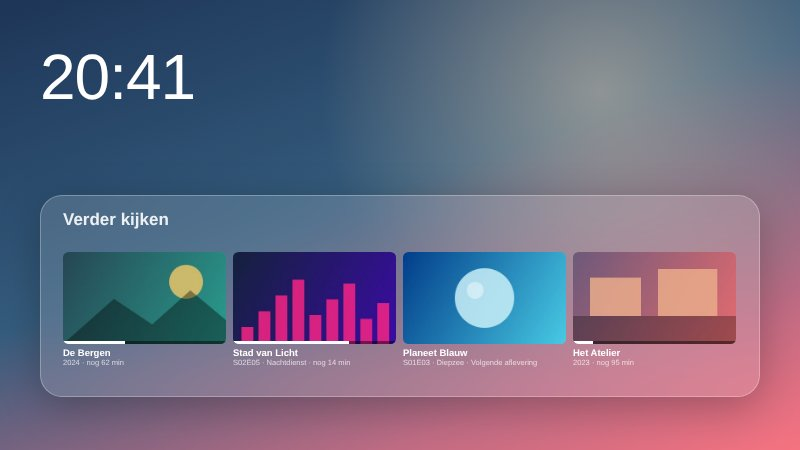
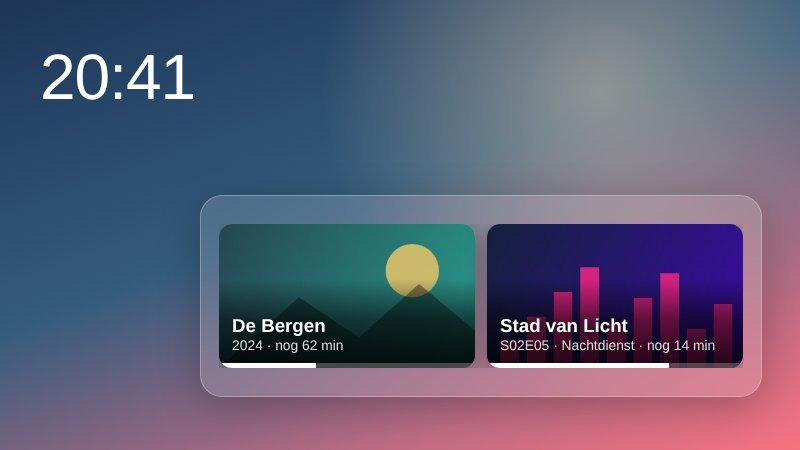
Continue watching: larger and readable; add-on cards on glass
The card shows as many titles as fit at a readable size (a still at least about 1.25 times the card's height), with
the title and episode over the bottom of the picture on a dark fade instead of small text under it. With the glass
card style (Couch) a card with its own page gets the frosted panel and the blurred scene behind it like the Home
Assistant cards, its page inside the panel's margins; the targets of its buttons are moved along with the frame.

Claude-Session: https://claude.ai/code/session_015CPHmiXFrdnEUAxVGgaNFe

Changed region(s): [[0.0312, 0.4356, 0.9688, 0.9022], [0.0625, 0.8711, 0.0938, 0.9022]]

diff --git a/addons/catalog/jellyfin/cards/continue/card.js b/addons/catalog/jellyfin/cards/continue/card.js
@@ -1,6 +1,7 @@
 /* The Continue watching card (ES5: it runs on Chromium 68 too). Everything comes in the message of the launcher: m.data is what the
    Jellyfin add-on's service said, the pictures as data: addresses (the frame has no network). Each title is a button for the remote:
-   the launcher puts a target over it, and OK sends the add-on open1, open2 ... which opens the Jellyfin app. */
+   the launcher puts a target over it, and OK sends the add-on open1, open2 ... which opens the Jellyfin app. The card shows as many
+   titles as fit at a readable size (or the number chosen), the title and episode over the picture. */
 var M = null,
   D = null,
   last = '';
@@ -11,27 +12,23 @@ function el(tag, cls, text) {
   if (text !== undefined) e.textContent = text;
   return e;
 }
-/* the size of a tile: as high as the card allows (two lines of text under the picture), narrower when they do not fit side by side;
-   the text follows the size of the tiles */
-function sizes(n, poster) {
+/* the tiles: as high as the card, side by side; with "as many as fit" a still is never narrower than about 1.25 times the card's
+   height (a poster 0.5 times), so the text stays readable; a chosen number is kept and the tiles get narrower */
+function layout(have, poster, chosen) {
   var W = window.innerWidth,
     H = window.innerHeight,
     ratio = poster ? 2 / 3 : 16 / 9,
-    rem = H * 0.1,
-    z = null;
-  for (var k = 0; k < 2; k++) {
-    var text = rem * (0.78 * 1.3 + 0.62 * 1.3 + 0.25),
-      gap = Math.round(rem * 0.6),
-      h = Math.max(10, H - text),
-      w = h * ratio;
-    if (n * w + (n - 1) * gap > W) {
-      w = (W - (n - 1) * gap) / n;
-      h = w / ratio;
-    }
-    z = { w: Math.floor(w), h: Math.floor(h), gap: gap, rem: rem, top: Math.max(0, Math.floor((H - h - text) / 2)) };
-    rem = Math.min(H * 0.1, Math.max(9, w * (poster ? 0.11 : 0.075)));
+    gap = Math.max(8, Math.round(H * 0.07)),
+    minW = H * (poster ? 0.5 : 1.25),
+    n = chosen ? Math.min(have, chosen) : Math.max(1, Math.min(have, Math.floor((W + gap) / (minW + gap)))),
+    h = H,
+    w = h * ratio;
+  if (n * w + (n - 1) * gap > W) {
+    w = (W - (n - 1) * gap) / n;
+    h = Math.min(H, w / ratio);
   }
-  return z;
+  var rem = Math.max(11, Math.min(28, Math.min(h * 0.13, w * (poster ? 0.12 : 0.075))));
+  return { n: n, w: Math.floor(w), h: Math.floor(h), gap: gap, rem: rem, top: Math.floor((H - h) / 2) };
 }
 function draw() {
   var row = document.getElementById('row'),
@@ -44,39 +41,42 @@ function draw() {
   var items = (D && D.items) || [];
   if (!D) return buttons([]);
   if (!items.length) {
+    document.documentElement.style.fontSize = Math.max(12, Math.min(26, window.innerHeight * 0.11)).toFixed(1) + 'px';
     msg.textContent = D.connected === false ? D.hint || '' : D.error || D.empty || '';
     return buttons([]);
   }
   var poster = D.style === 'poster',
-    z = sizes(items.length, poster),
+    z = layout(items.length, poster, +D.count || 0),
     W = window.innerWidth,
     H = window.innerHeight,
     out = [];
   document.documentElement.style.fontSize = z.rem.toFixed(1) + 'px';
   row.style.top = z.top + 'px';
-  items.forEach(function (it, i) {
-    var tile = el('div', 'tile'),
-      pic = el('div', 'pic');
+  items.slice(0, z.n).forEach(function (it, i) {
+    var tile = el('div', 'tile' + (poster ? ' poster' : '')),
+      txt = el('div', 'txt');
     tile.style.width = z.w + 'px';
+    tile.style.height = z.h + 'px';
     if (i) tile.style[M.dir === 'rtl' ? 'marginRight' : 'marginLeft'] = z.gap + 'px';
-    pic.style.height = z.h + 'px';
     if (it.pic) {
       var im = el('img');
       im.src = it.pic;
-      pic.appendChild(im);
-    } else pic.appendChild(el('div', 'nopic', it.title));
+      tile.appendChild(im);
+    }
+    tile.appendChild(el('div', 'fade'));
+    txt.appendChild(el('div', 't', it.title));
+    var sub = it.left ? it.sub + (it.sub ? ' · ' : '') + it.left : it.sub;
+    if (sub) txt.appendChild(el('div', 's', sub));
+    tile.appendChild(txt);
     if (it.pct > 0) {
       var bar = el('div', 'bar'),
         fill = el('i');
       fill.style.width = Math.max(2, Math.min(100, it.pct)) + '%';
       bar.appendChild(fill);
-      pic.appendChild(bar);
+      tile.appendChild(bar);
     }
-    tile.appendChild(pic);
-    tile.appendChild(el('div', 't', it.title));
-    tile.appendChild(el('div', 's', it.left ? it.sub + (it.sub ? ' · ' : '') + it.left : it.sub));
     row.appendChild(tile);
-    /* the target of the remote: the picture of this title, in percent of the card */
+    /* the target of the remote: this tile, in percent of the card */
     var x = M.dir === 'rtl' ? W - (i + 1) * z.w - i * z.gap : i * (z.w + z.gap);
     out.push({ name: 'open' + (i + 1), x: (x / W) * 100, y: (z.top / H) * 100, w: (z.w / W) * 100, h: (z.h / H) * 100 });
   });

diff --git a/addons/catalog/jellyfin/cards/continue/card.css b/addons/catalog/jellyfin/cards/continue/card.css
@@ -1,7 +1,7 @@
 /* The Continue watching card: transparent background, fills its frame. The tiles are sized by card.js (Chromium 79 has no
-   aspect-ratio); the colour and typeface are the theme's (the launcher sends them). */
+   aspect-ratio); the title and the episode lie over the bottom of the picture, on a dark fade, so they stay readable on any scene. */
 html {
-  font-size: 10vh;
+  font-size: 16px;
 }
 body {
   margin: 0;
@@ -16,69 +16,79 @@ body {
   left: 0;
   top: 0;
   right: 0;
-  bottom: 0;
   white-space: nowrap;
   overflow: hidden;
 }
 .tile {
+  position: relative;
   display: inline-block;
   vertical-align: top;
   white-space: normal;
-}
-.pic {
-  position: relative;
-  border-radius: 0.45rem;
+  border-radius: 0.7rem;
   overflow: hidden;
   background: rgba(255, 255, 255, 0.12);
+  box-shadow:
+    0 0.4rem 1.2rem rgba(0, 0, 0, 0.3),
+    inset 0 0 0 1px rgba(255, 255, 255, 0.16);
 }
-.pic img {
-  display: block;
+.tile img {
+  position: absolute;
+  left: 0;
+  top: 0;
   width: 100%;
   height: 100%;
   object-fit: cover;
 }
-.pic .bar {
+.tile .fade {
   position: absolute;
   left: 0;
   right: 0;
   bottom: 0;
-  height: 0.22rem;
-  background: rgba(0, 0, 0, 0.45);
+  height: 62%;
+  background: linear-gradient(rgba(0, 0, 0, 0), rgba(0, 0, 0, 0.55) 45%, rgba(0, 0, 0, 0.85));
 }
-.pic .bar i {
+.tile .txt {
+  position: absolute;
+  left: 0.7rem;
+  right: 0.7rem;
+  bottom: 0.7rem;
+  color: #fff;
+  text-shadow: 0 1px 4px rgba(0, 0, 0, 0.6);
+}
+.tile .t {
+  font-size: 1rem;
+  font-weight: 700;
+  line-height: 1.2;
+  white-space: nowrap;
+  overflow: hidden;
+  text-overflow: ellipsis;
+}
+.tile .s {
+  font-size: 0.74rem;
+  line-height: 1.3;
+  opacity: 0.85;
+  white-space: nowrap;
+  overflow: hidden;
+  text-overflow: ellipsis;
+}
+.tile .bar {
+  position: absolute;
+  left: 0;
+  right: 0;
+  bottom: 0;
+  height: 0.28rem;
+  background: rgba(255, 255, 255, 0.25);
+}
+.tile .bar i {
   display: block;
   height: 100%;
-  background: currentColor;
+  background: #fff;
 }
-.pic .nopic {
-  position: absolute;
-  left: 0;
-  right: 0;
-  top: 0;
-  bottom: 0;
-  display: flex;
-  align-items: center;
-  justify-content: center;
-  padding: 0 0.4rem;
-  text-align: center;
-  font-size: 0.8rem;
-  font-weight: 600;
-  opacity: 0.8;
-}
-.t {
-  font-size: 0.78rem;
-  font-weight: 600;
-  margin-top: 0.25rem;
-  white-space: nowrap;
-  overflow: hidden;
-  text-overflow: ellipsis;
-}
-.s {
-  font-size: 0.62rem;
-  opacity: 0.7;
-  white-space: nowrap;
-  overflow: hidden;
-  text-overflow: ellipsis;
+.tile.poster .t {
+  white-space: normal;
+  display: -webkit-box;
+  -webkit-line-clamp: 2;
+  -webkit-box-orient: vertical;
 }
 #msg {
   position: absolute;
@@ -86,10 +96,11 @@ body {
   right: 0;
   top: 50%;
   transform: translateY(-50%);
-  font-size: 0.5rem;
-  opacity: 0.7;
+  font-size: 1.1rem;
+  opacity: 0.8;
   text-align: center;
+  padding: 0 1rem;
 }
-[dir="rtl"] .pic .bar i {
+[dir="rtl"] .tile .bar i {
   margin-left: auto;
 }

diff --git a/app/index.html b/app/index.html
@@ -1256,7 +1256,8 @@ body.scenes-on {
 [data-cards="glass"] .card-ha-weather,
 [data-cards="glass"] .card-ha-entity,
 [data-cards="glass"] .card-ha-entities,
-[data-cards="glass"] .card-ha-camera {
+[data-cards="glass"] .card-ha-camera,
+[data-cards="glass"] .card-frame {
   padding: 22px 28px;
   border-radius: 30px;
   background-color: rgba(30, 20, 28, 0.34);
@@ -1269,6 +1270,13 @@ body.scenes-on {
 }
 [data-cards="glass"] .card-ha-camera {
   padding: 0;
+}
+/* a card with its own page on glass: the page inside the margins of the panel (cards.js moves the targets of its buttons along) */
+[data-cards="glass"] .card-frame > iframe {
+  left: 18px !important;
+  top: 16px !important;
+  width: calc(100% - 36px) !important;
+  height: calc(100% - 32px) !important;
 }
 [data-cards="glass"] .card-ha-entity.f {
   background-image: none !important;
@@ -3539,6 +3547,17 @@ function cardButtons(el, list) {
     };
     ok.push({ name: n.name, label: el._pk.actions[i].label, x: q(n.x), y: q(n.y), w: q(n.w), h: q(n.h) });
   });
+  /* the page says percent of its frame; the frame can sit inside the card's margins (glass cards), so the targets are moved there */
+  var f = el._f,
+    cw = el.offsetWidth,
+    ch = el.offsetHeight;
+  if (f && cw && ch && f.offsetWidth && (f.offsetLeft || f.offsetTop || f.offsetWidth !== cw || f.offsetHeight !== ch))
+    ok.forEach(function (b) {
+      b.x = ((f.offsetLeft + (b.x * f.offsetWidth) / 100) / cw) * 100;
+      b.y = ((f.offsetTop + (b.y * f.offsetHeight) / 100) / ch) * 100;
+      b.w = ((b.w * f.offsetWidth) / 100 / cw) * 100;
+      b.h = ((b.h * f.offsetHeight) / 100 / ch) * 100;
+    });
   var key = JSON.stringify(ok);
   if (el._bk === key) return;
   el._bk = key;
@@ -3604,6 +3623,8 @@ function cardFrame(id, pk) {
   return {
     draw: function (el, o) {
       el._pk = pk;
+      /* a card with its own page: the glass style (cards.style) gives it the frosted panel too, its page inside the margins */
+      if (!/\bcard-frame\b/.test(el.className)) el.className += ' card-frame';
       if (!el._f) {
         var f = document.createElement('iframe');
         f.setAttribute('sandbox', 'allow-scripts');
@@ -3976,7 +3997,7 @@ var SCENES = (function () {
     if (frost) frost.style.backgroundImage = g ? 'linear-gradient(rgba(16,14,26,0.34),rgba(16,14,26,0.46)),' + g : '';
     for (var i = 0; i < els2.length; i++) {
       var el = els2[i];
-      if (!/\bcard-(weather|ha-)/.test(el.className)) continue;
+      if (!/\bcard-(weather|ha-|frame\b)/.test(el.className)) continue;
       if (!g) {
         el.style.backgroundImage = '';
         el.style.backgroundSize = '';

diff --git a/app/src/js/cards.js b/app/src/js/cards.js
@@ -667,6 +667,17 @@ function cardButtons(el, list) {
     };
     ok.push({ name: n.name, label: el._pk.actions[i].label, x: q(n.x), y: q(n.y), w: q(n.w), h: q(n.h) });
   });
+  /* the page says percent of its frame; the frame can sit inside the card's margins (glass cards), so the targets are moved there */
+  var f = el._f,
+    cw = el.offsetWidth,
+    ch = el.offsetHeight;
+  if (f && cw && ch && f.offsetWidth && (f.offsetLeft || f.offsetTop || f.offsetWidth !== cw || f.offsetHeight !== ch))
+    ok.forEach(function (b) {
+      b.x = ((f.offsetLeft + (b.x * f.offsetWidth) / 100) / cw) * 100;
+      b.y = ((f.offsetTop + (b.y * f.offsetHeight) / 100) / ch) * 100;
+      b.w = ((b.w * f.offsetWidth) / 100 / cw) * 100;
+      b.h = ((b.h * f.offsetHeight) / 100 / ch) * 100;
+    });
   var key = JSON.stringify(ok);
   if (el._bk === key) return;
   el._bk = key;
@@ -732,6 +743,8 @@ function cardFrame(id, pk) {
   return {
     draw: function (el, o) {
       el._pk = pk;
+      /* a card with its own page: the glass style (cards.style) gives it the frosted panel too, its page inside the margins */
+      if (!/\bcard-frame\b/.test(el.className)) el.className += ' card-frame';
       if (!el._f) {
         var f = document.createElement('iframe');
         f.setAttribute('sandbox', 'allow-scripts');

diff --git a/addons/catalog/jellyfin/service.js b/addons/catalog/jellyfin/service.js
@@ -29,7 +29,7 @@ function create(ctx) {
   const style = opt => (opt && opt.style === 'poster' ? 'poster' : 'wide');
   const count = opt => {
     const n = parseInt(opt && opt.count, 10);
-    return n >= 2 && n <= 6 ? n : style(opt) === 'poster' ? 6 : 4;
+    return n >= 1 && n <= 6 ? n : 0;
   };
   // pictures already made into data: addresses, by image and tag (a picture changes only with its tag)
   let pics = {},
@@ -60,7 +60,7 @@ function create(ctx) {
       };
     let items;
     try {
-      items = await jf.list(count(opt), !opt || opt.nextup !== 'off');
+      items = await jf.list(count(opt) || (style(opt) === 'poster' ? 6 : 4), !opt || opt.nextup !== 'off');
     } catch (e) {
       return { connected: true, error: T(String(e.message || e)), items: [], at: Date.now() };
     }
@@ -80,7 +80,7 @@ function create(ctx) {
         pic: p,
       });
     }
-    return { connected: true, style: st, items: out, empty: out.length ? '' : T('Nothing to continue'), at: Date.now() };
+    return { connected: true, style: st, count: count(opt), items: out, empty: out.length ? '' : T('Nothing to continue'), at: Date.now() };
   }
 
   // the app that opens: the one chosen, or the first of the three that is installed (asked of LG's app manager, kept 10 minutes)

diff --git a/app/src/css/home.css b/app/src/css/home.css
@@ -1251,7 +1251,8 @@ body.scenes-on {
 [data-cards="glass"] .card-ha-weather,
 [data-cards="glass"] .card-ha-entity,
 [data-cards="glass"] .card-ha-entities,
-[data-cards="glass"] .card-ha-camera {
+[data-cards="glass"] .card-ha-camera,
+[data-cards="glass"] .card-frame {
   padding: 22px 28px;
   border-radius: 30px;
   background-color: rgba(30, 20, 28, 0.34);
@@ -1264,6 +1265,13 @@ body.scenes-on {
 }
 [data-cards="glass"] .card-ha-camera {
   padding: 0;
+}
+/* a card with its own page on glass: the page inside the margins of the panel (cards.js moves the targets of its buttons along) */
+[data-cards="glass"] .card-frame > iframe {
+  left: 18px !important;
+  top: 16px !important;
+  width: calc(100% - 36px) !important;
+  height: calc(100% - 32px) !important;
 }
 [data-cards="glass"] .card-ha-entity.f {
   background-image: none !important;

diff --git a/app/src/js/scenes.js b/app/src/js/scenes.js
@@ -241,7 +241,7 @@ var SCENES = (function () {
     if (frost) frost.style.backgroundImage = g ? 'linear-gradient(rgba(16,14,26,0.34),rgba(16,14,26,0.46)),' + g : '';
     for (var i = 0; i < els2.length; i++) {
       var el = els2[i];
-      if (!/\bcard-(weather|ha-)/.test(el.className)) continue;
+      if (!/\bcard-(weather|ha-|frame\b)/.test(el.className)) continue;
       if (!g) {
         el.style.backgroundImage = '';
         el.style.backgroundSize = '';
